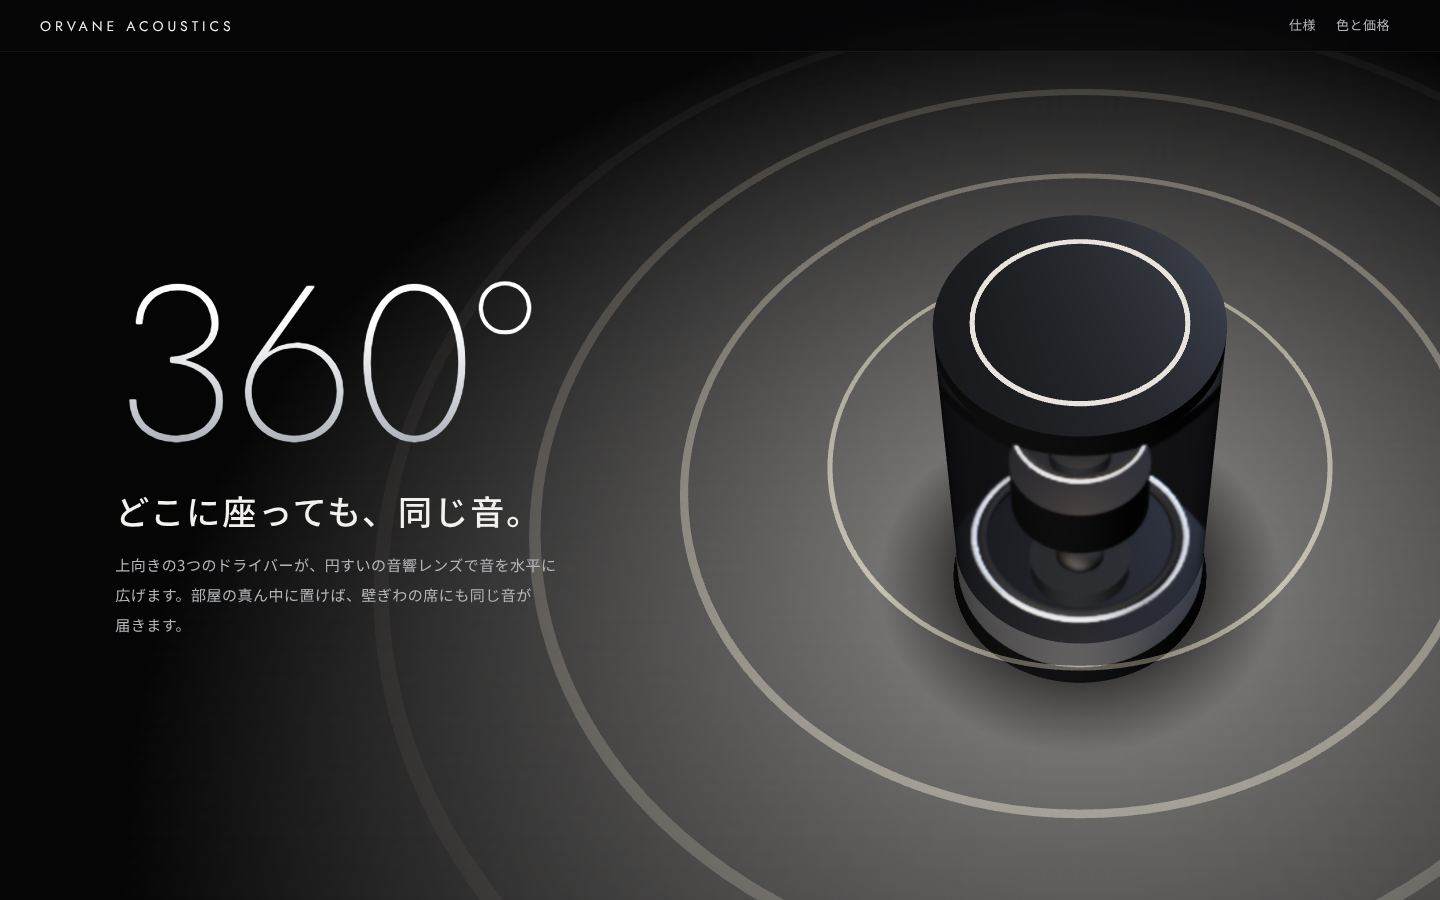
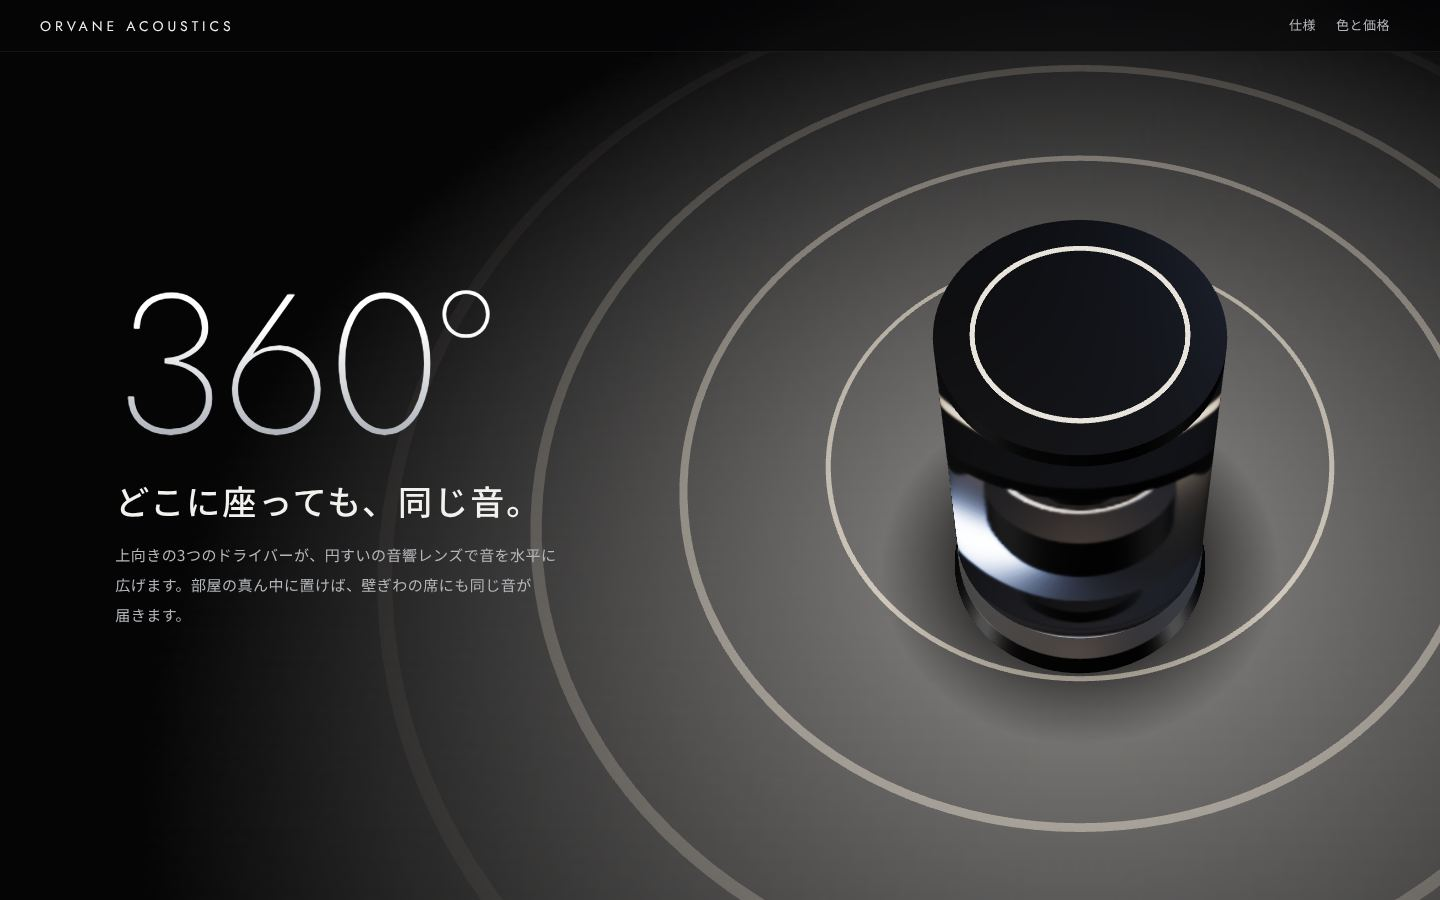
S07-09：審査1回目の指摘を反映（ストリップライトの環境でガラスを透明に、組み上げの段と光の輪の脈、分解の段にドライバー名、20本のゲージ、縦長の画面で文字と製品を分ける、大きな文字は幕が開くように出す）
Claude-Session: https://claude.ai/code/session_01BwmUGTgfPEj1Tu5124aDtq

diff --git a/studio/projects/S07-09-orvane/site/app.js b/studio/projects/S07-09-orvane/site/app.js
@@ -5,7 +5,7 @@ const el = (t, c, x) => { const e = document.createElement(t); if (c) e.classNam
 const reduce = matchMedia('(prefers-reduced-motion: reduce)').matches;
 $('brand').textContent = F.brand; $('kind').textContent = F.kind; $('product').textContent = F.product; $('tag').textContent = F.tagline;
 F.stages.forEach((s, i) => {
-  const sec = el('section', 'sec'); sec.id = s.id; sec.dataset.k = i + 1; sec.setAttribute('aria-labelledby', `h-${s.id}`);
+  const sec = el('section', `sec s-${s.id}`); sec.id = s.id; sec.dataset.k = i + 1; sec.setAttribute('aria-labelledby', `h-${s.id}`);
   const c = el('div', 'copy'), big = el('p', /^[\d°]+$/.test(s.big) ? 'big' : 'big ja', s.big), h = el('h2', null, s.head); h.id = `h-${s.id}`;
   c.append(big, h, el('p', 'body', s.body)); sec.append(c); $('stages').append(sec);
 });
@@ -32,7 +32,12 @@ secs.forEach(s => io.observe(s));
   r.setPixelRatio(Math.min(2, devicePixelRatio)); r.setClearColor(0x050506, 1);
   r.toneMapping = THREE.ACESFilmicToneMapping; r.toneMappingExposure = 1.0;
   const scene = new THREE.Scene(), cam = new THREE.PerspectiveCamera(30, 1, .1, 100);
-  const pm = new THREE.PMREMGenerator(r); scene.environment = pm.fromScene(new RoomEnvironment(), .04).texture;
+  // 映り込み用の環境：暗い部屋の左右に縦長の白いストリップライト（ガラスと金属の縁に縦のハイライトが立つ）
+  const envS = new THREE.Scene(); envS.background = new THREE.Color(0x060606);
+  const stripM = new THREE.MeshBasicMaterial({ color: new THREE.Color(1, 1, 1).multiplyScalar(6) });
+  for (const x of [-5, 5]) { const m = new THREE.Mesh(new THREE.BoxGeometry(.6, 9, .6), stripM); m.position.set(x, 1, 1.5); envS.add(m); }
+  const top = new THREE.Mesh(new THREE.BoxGeometry(4, .3, 4), new THREE.MeshBasicMaterial({ color: new THREE.Color(1, .95, .9).multiplyScalar(1.5) })); top.position.y = 7; envS.add(top);
+  const pm = new THREE.PMREMGenerator(r); scene.environment = pm.fromScene(envS, 0).texture;
 
   // 光：左上のキー、背後の冷たいリム、真上の細いスポット
   const key = new THREE.SpotLight(0xfff1de, 60, 20, .5, .8, 1.6); key.position.set(-3.5, 5, 3); key.target.position.set(0, 1, 0); scene.add(key, key.target);
@@ -63,25 +68,29 @@ secs.forEach(s => io.observe(s));
     const mag = new THREE.Mesh(new THREE.CylinderGeometry(rad * .5, rad * .5, rad * .3, 48), chrome); mag.position.y = -rad * .18; g.add(mag);
     return g;
   };
-  const lens = (rad, h) => { const m = new THREE.Mesh(new THREE.ConeGeometry(rad, h, 72, 1, true), chrome); m.rotation.x = Math.PI; return m; };
-  const base = part(new THREE.Mesh(new THREE.CylinderGeometry(.6, .63, .1, 96), body), .05, -.45);
-  const woofer = part(driver(.46), .22, 0);
+  const lensM = new THREE.MeshStandardMaterial({ color: 0xd8dade, metalness: 1, roughness: .25, side: THREE.DoubleSide });
+  const lens = (rad, h) => { const m = new THREE.Mesh(new THREE.ConeGeometry(rad, h, 72, 1, true), lensM); m.rotation.x = Math.PI; return m; };
+  const base = part(new THREE.Mesh(new THREE.CylinderGeometry(.6, .63, .1, 96), body), .05, 0);
+  const drv = [];
+  const woofer = part(driver(.46), .22, 0); drv.push(woofer);
   part(lens(.42, .2), .56, .3);
   const batt = new THREE.Group();
   batt.add(new THREE.Mesh(new THREE.CylinderGeometry(.3, .3, .3, 48), new THREE.MeshStandardMaterial({ color: 0x1c1d20, metalness: .4, roughness: .5 })));
-  const gaugeM = new THREE.MeshBasicMaterial({ color: 0xffd9a8, transparent: true, opacity: .9 });
-  const gauge = new THREE.Mesh(new THREE.CylinderGeometry(.303, .303, .28, 48, 1, true, 0, Math.PI * 2), gaugeM); gauge.scale.y = .02; batt.add(gauge);
+  // 電池のゲージ：20時間＝20本の細い光の帯。下の段のスクロールで1本ずつ灯る
+  const bars = [...Array(20)].map((_, k) => { const a = k / 20 * Math.PI * 2, m = new THREE.Mesh(new THREE.BoxGeometry(.02, .24, .01), new THREE.MeshBasicMaterial({ color: 0xffd9a8, transparent: true, opacity: 0 })); m.position.set(Math.sin(a) * .305, 0, Math.cos(a) * .305); m.rotation.y = a; batt.add(m); return m; });
   part(batt, .82, .62);
-  part(driver(.27), 1.1, .98);
+  drv.push(part(driver(.27), 1.1, .98));
   part(lens(.25, .13), 1.32, 1.22);
-  part(driver(.11, true), 1.5, 1.45);
+  drv.push(part(driver(.11, true), 1.5, 1.45));
+  const v3 = new THREE.Vector3();
+  const tags = F.specs[0][1].split('／').map(t => { const d = el('div', 'tag3d'); d.append(el('i'), el('span', null, t)); box.append(d); return d; });
   part(lens(.12, .08), 1.66, 1.62);
   const cap = new THREE.Group();
   cap.add(new THREE.Mesh(new THREE.CylinderGeometry(.6, .6, .08, 96), body));
   const ledM = new THREE.MeshBasicMaterial({ color: 0xffd9a8 });
   const led = new THREE.Mesh(new THREE.TorusGeometry(.44, .011, 10, 128), ledM); led.rotation.x = Math.PI / 2; led.position.y = .042; cap.add(led);
   part(cap, 1.84, 2.0);
-  const glass = new THREE.MeshPhysicalMaterial({ color: 0xffffff, metalness: 0, roughness: .04, transmission: 1, thickness: .08, ior: 1.5, transparent: true, side: THREE.DoubleSide, envMapIntensity: 1.2 });
+  const glass = new THREE.MeshPhysicalMaterial({ color: 0xffffff, metalness: 0, roughness: .02, transmission: 1, thickness: .35, ior: 1.5, attenuationColor: new THREE.Color(0xd8dde3), attenuationDistance: 2, iridescence: .15, specularIntensity: 1, transparent: true, side: THREE.DoubleSide, envMapIntensity: 1.6 });
   const shell = new THREE.Mesh(new THREE.CylinderGeometry(.6, .6, 1.7, 96, 1, true), glass); shell.position.y = .95; prod.add(shell);
   const frost = new THREE.Mesh(new THREE.CylinderGeometry(.604, .604, .22, 96, 1, true), new THREE.MeshPhysicalMaterial({ color: 0xffffff, roughness: .4, transmission: .85, thickness: .05, transparent: true, opacity: .45 })); frost.position.y = .21; prod.add(frost);
   const halo = new THREE.PointLight(0xffd9a8, 0, 3, 2); halo.position.y = 1.7; prod.add(halo);
@@ -93,12 +102,14 @@ secs.forEach(s => io.observe(s));
   const K = [
     { elev: 10, dist: 7.2, ex: 0, lift: 0, ring: .55, wave: 0, gauge: 0, yaw: 0 },
     { elev: 58, dist: 7.6, ex: 0, lift: 0, ring: .7, wave: 1, gauge: 0, yaw: .6 },
-    { elev: 12, dist: 12.5, ex: 1, lift: 1, ring: .3, wave: 0, gauge: 0, yaw: 1.4 },
+    { elev: 12, dist: 10.2, ex: 1, lift: 1, ring: .3, wave: 0, gauge: 0, yaw: 1.4 },
     { elev: 6, dist: 4.4, ex: 0, lift: 0, ring: 1, wave: 0, gauge: 0, yaw: 2.2 },
-    { elev: 16, dist: 9.6, ex: .5, lift: .55, ring: .5, wave: 0, gauge: 1, yaw: 3.0 },
-    { elev: 12, dist: 7.0, ex: 0, lift: 0, ring: .7, wave: 0, gauge: 0, yaw: 3.9 },
+    { elev: 16, dist: 8.6, ex: .55, lift: 1, ring: .5, wave: 0, gauge: 1, yaw: 3.0 },
+    { elev: 10, dist: 6.6, ex: 0, lift: 0, ring: .7, wave: 0, gauge: 1, yaw: 3.6 },
+    { elev: 12, dist: 7.0, ex: 0, lift: 0, ring: .7, wave: 0, gauge: 0, yaw: 4.2 },
   ];
-  const lerp = (a, b, t) => a + (b - a) * t, sm = t => t * t * (3 - 2 * t);
+  const lerp = (a, b, t) => a + (b - a) * t, sm = t => t * t * (3 - 2 * t), io3 = t => t < .5 ? 4 * t * t * t : 1 - Math.pow(-2 * t + 2, 3) / 2;
+  const back = t => { const c = 1.2, x = t - 1; return 1 + (c + 1) * x * x * x + c * x * x; };
   let sp = 0;   // 段の位置（小数）
   function stagePos() {
     const mid = scrollY + innerHeight / 2, cs = secs.map(s => { const b = s.getBoundingClientRect(); return b.top + scrollY + Math.min(b.height, innerHeight * 1.2) / 2; });
@@ -108,27 +119,38 @@ secs.forEach(s => io.observe(s));
   onColor = i => { tCol = COL[i]; };
   let tCol = COL[0];
 
-  function fit() { const w = box.clientWidth, h = box.clientHeight; r.setSize(w, h, false); cam.aspect = w / h; cam.fov = w < h ? 44 : 30; cam.updateProjectionMatrix(); }
+  function fit() { const w = box.clientWidth, h = box.clientHeight; r.setSize(w, h, false); cam.aspect = w / h; cam.fov = w < 900 && w < h ? 50 : 30; cam.updateProjectionMatrix(); }
   new ResizeObserver(fit).observe(box); fit();
 
   let shown = false, last = performance.now(), off = null;
   function frame(ms) {
     const dt = Math.min(.05, (ms - last) / 1000); last = ms; const t = ms / 1000;
     const target = stagePos(); sp = reduce ? Math.round(target) : sp + (target - sp) * (1 - Math.exp(-dt * 6));
-    const i = Math.min(K.length - 2, Math.floor(sp)), f = sm(Math.min(1, sp - i)), A = K[i], B = K[i + 1], S = {};
+    const i = Math.min(K.length - 2, Math.floor(sp)), raw = Math.min(1, sp - i), f = io3(raw), A = K[i], B = K[i + 1], S = {};
     for (const k in A) S[k] = lerp(A[k], B[k], f);
     // 分解：部品ごとに少しずつずらして開く（下の部品から）
-    parts.forEach((p, n) => { const e = sm(Math.min(1, Math.max(0, S.ex * 1.25 - n * .03))); p.position.y = p.userData.y + p.userData.ex * 1.15 * e; });
-    shell.position.y = .95 + S.lift * 4.6; glass.opacity = 1 - S.lift * .6; frost.position.y = .21 + S.lift * 4.6;
-    ledM.color.setRGB(1, .85, .66).multiplyScalar(.25 + S.ring * 1.4); halo.intensity = S.ring * 1.2;
-    gauge.scale.y = Math.max(.02, S.gauge); gauge.position.y = -.14 + .14 * gauge.scale.y;
+    // 組み上げ（段4→段5）：上の部品から順に落ちて、着地で少し沈んで戻る。最後に筒が被さり、光の輪が1回脈打つ
+    const build = i === 4 ? raw : -1, N = parts.length;
+    parts.forEach((p, n) => {
+      let e;
+      if (build >= 0) { const d = (N - 1 - n) * .07, u = Math.min(1, Math.max(0, (build - d) / .45)); e = K[4].ex * (1 - back(u)); }
+      else e = sm(Math.min(1, Math.max(0, S.ex * 1.25 - n * .03)));
+      p.position.y = p.userData.y + p.userData.ex * .9 * e;
+    });
+    let lift = S.lift, pulse = 0;
+    if (build >= 0) { const u = Math.min(1, Math.max(0, (build - .62) / .25)); lift = 1 - sm(u); pulse = build > .87 ? Math.exp(-Math.pow((build - .93) / .04, 2)) : 0; }
+    shell.position.y = .95 + lift * 4.6; glass.opacity = 1 - lift * .6; frost.position.y = .21 + lift * 4.6;
+    ledM.color.setRGB(1, .85, .66).multiplyScalar(.25 + (S.ring + pulse * .9) * 1.4); halo.intensity = (S.ring + pulse) * 1.2;
+    bars.forEach((b, k) => { b.material.opacity = S.gauge * .75 * Math.min(1, Math.max(0, (i === 3 ? raw : i === 4 ? 1 : S.gauge) * 22 - k)); });
+    // ドライバーの名前（分解の段だけ、引き出し線つき）
+    tags.forEach((g, k) => { const p = drv[k]; const L = box.clientWidth < 900; v3.set(0, 0, 0); p.localToWorld(v3); v3.x += L ? -.55 : .5; v3.project(cam); g.classList.toggle('l', L); const show = Math.max(0, (S.ex - .75) * 4) * (i <= 2 ? 1 : 0); g.style.opacity = Math.min(1, show * (1.3 - k * .15)).toFixed(3); const px = (v3.x + 1) / 2 * box.clientWidth, X = L ? Math.max(g.offsetWidth + 8, px) : Math.min(box.clientWidth - g.offsetWidth - 8, px); g.style.transform = `translate(${X.toFixed(1)}px, ${((1 - v3.y) / 2 * box.clientHeight).toFixed(1)}px)${L ? ' translateX(-100%)' : ''}`; });
     waves.forEach((w, k) => { const ph = ((reduce ? .5 : t * .35) + k / waves.length) % 1; w.scale.setScalar(.7 + ph * 2.6); w.material.opacity = S.wave * (1 - ph) * .5; });
     body.color.lerp(tCol, .08);
     prod.rotation.y = S.yaw + (reduce ? 0 : t * .08);
-    const el = S.elev * Math.PI / 180, ty = 1.0 + S.ex * .95;
+    const el = S.elev * Math.PI / 180, ty = 1.0 + S.ex * .85;
     cam.position.set(0, ty + Math.sin(el) * S.dist, Math.cos(el) * S.dist); cam.lookAt(0, ty, 0);
     // 製品は文字を避けて置く（PC は右、スマホは下）
-    const W = box.clientWidth, H = box.clientHeight, o = W >= 900 ? [-W * .25, 0] : [0, -H * .17];
+    const W = box.clientWidth, H = box.clientHeight, o = W >= 900 ? [-W * .25, 0] : [0, -H * .24];
     if (!off || off[0] !== o[0] || off[1] !== o[1]) { cam.setViewOffset(W, H, o[0], o[1], W, H); off = o; }
     r.render(scene, cam);
     if (!shown) { shown = true; cv.classList.add('ready'); }

diff --git a/studio/projects/S07-09-orvane/site/style.css b/studio/projects/S07-09-orvane/site/style.css
@@ -30,15 +30,22 @@ main { position: relative; z-index: 1; }
 .sec { min-height: 150svh; padding: 92px 20px 0; }
 .sec.hero { min-height: 120svh; }
 .copy { position: sticky; top: 92px; max-width: 520px; }
+.s-round { min-height: 200svh; } .s-glass { min-height: 120svh; } .s-build { min-height: 180svh; }
 .copy > * { opacity: 0; transform: translateY(18px); transition: opacity .7s cubic-bezier(.2, .7, .2, 1), transform .9s cubic-bezier(.2, .7, .2, 1); }
 .sec.in .copy > * { opacity: 1; transform: none; }
+.sec:not(.in) .copy > * { transition-duration: .25s; transition-delay: 0s; }
+/* 大きな文字だけは、下から幕が開くように出す */
+.copy > .big { opacity: 1; transform: none; clip-path: inset(100% 0 0 0); letter-spacing: .08em; transition: clip-path .9s cubic-bezier(.16, 1, .3, 1), letter-spacing .9s cubic-bezier(.16, 1, .3, 1); }
+.sec.in .copy > .big { clip-path: inset(0 0 -10% 0); letter-spacing: -.01em; }
+.sec:not(.in) .copy > .big { transition: clip-path .25s, letter-spacing .25s; }
+.sec.in .copy > :nth-child(2) { transition-delay: .12s; } .sec.in .copy > :nth-child(3) { transition-delay: .24s; }
 .sec.in .copy > :nth-child(2) { transition-delay: .08s; } .sec.in .copy > :nth-child(3) { transition-delay: .16s; } .sec.in .copy > :nth-child(4) { transition-delay: .24s; }
 .kind { margin: 0; font-size: 13px; color: var(--sub); letter-spacing: .2em; }
-.hero h1 { margin: 8px 0 0; font: 200 clamp(44px, 12.5vw, 104px)/1 var(--num); letter-spacing: .06em; white-space: nowrap; }
+.hero h1 { margin: 8px 0 0; font: 200 clamp(36px, 12.5vw, 104px)/1 var(--num); letter-spacing: .06em; white-space: nowrap; }
 .tag { margin: 18px 0 0; font: 300 clamp(20px, 5vw, 30px)/1.6 var(--sans); letter-spacing: .12em; }
 .hint { margin: 28px 0 0; font-size: 12px; color: var(--sub); letter-spacing: .2em; }
-.big { margin: 0; font: 200 clamp(84px, 26vw, 220px)/.95 var(--num); letter-spacing: -.01em; background: linear-gradient(180deg, #fff 30%, #9ea3ab); -webkit-background-clip: text; background-clip: text; color: transparent; white-space: nowrap; }
-.big.ja { font: 300 clamp(64px, 19vw, 168px)/1.05 var(--sans); letter-spacing: .02em; }
+.big { margin: 0; font: 200 clamp(72px, min(26vw, 22svh), 220px)/.95 var(--num); letter-spacing: -.01em; background: linear-gradient(180deg, #fff 30%, #9ea3ab); -webkit-background-clip: text; background-clip: text; color: #eceef0; -webkit-text-fill-color: transparent; white-space: nowrap; }
+.big.ja { font: 300 clamp(56px, min(19vw, 17svh), 168px)/1.05 var(--sans); letter-spacing: .02em; }
 .sec h2 { margin: 16px 0 0; font: 500 clamp(22px, 5.6vw, 34px)/1.5 var(--sans); letter-spacing: .06em; }
 .body { margin: 14px 0 0; color: var(--sub); font-size: 15px; line-height: 2; max-width: 30em; }
 .sw { display: flex; gap: 12px; margin: 24px 0 0; }
@@ -48,10 +55,10 @@ main { position: relative; z-index: 1; }
 .price { margin: 24px 0 0; font: 300 clamp(30px, 8vw, 44px)/1.2 var(--num); letter-spacing: .02em; font-variant-numeric: tabular-nums; }
 .note { margin: 6px 0 0; font-size: 13px; color: var(--sub); }
 
-.specs { position: relative; z-index: 2; background: var(--bg); padding: 88px 20px 56px; border-top: 1px solid var(--line); }
+.specs { position: relative; z-index: 2; background: rgba(5, 5, 6, .82); -webkit-backdrop-filter: blur(20px); backdrop-filter: blur(20px); padding: 88px 20px 56px; border-top: 1px solid var(--line); }
 .specs h2 { max-width: 960px; margin: 0 auto 24px; font: 500 28px/1.4 var(--sans); letter-spacing: .2em; }
 .specs dl { max-width: 960px; margin: 0 auto; }
-.specs div { display: grid; grid-template-columns: 7em 1fr; gap: 16px; padding: 16px 0; border-bottom: 1px solid var(--line); }
+.specs div { align-items: baseline; display: grid; grid-template-columns: 7em 1fr; gap: 16px; padding: 16px 0; border-bottom: 1px solid var(--line); }
 .specs dt { color: var(--sub); font-size: 14px; }
 .specs dd { margin: 0; }
 .foot { position: relative; z-index: 2; background: var(--bg); padding: 24px 20px 48px; font-size: 12px; color: var(--sub); }
@@ -63,4 +70,10 @@ main { position: relative; z-index: 1; }
   .copy { top: 0; height: 100svh; display: flex; flex-direction: column; justify-content: center; max-width: 40vw; }
   .specs { padding: 120px 40px 80px; }
 }
-@media (prefers-reduced-motion: reduce) { .copy > * { transition: none; } }
+@media (prefers-reduced-motion: reduce) { .copy > *, .copy > .big { transition: none; } }
+/* 分解の段のドライバー名（3D の位置に付く） */
+.tag3d { position: absolute; left: 0; top: 0; z-index: 1; display: flex; align-items: center; gap: 8px; opacity: 0; pointer-events: none; font: 300 13px/1 var(--num); letter-spacing: .08em; color: var(--sub); white-space: nowrap; will-change: transform; }
+.tag3d.l { flex-direction: row-reverse; }
+.tag3d i { width: 40px; height: 1px; background: rgba(180, 182, 186, .6); }
+@media (max-width: 899px) { .copy { padding-bottom: 16px; } .copy::before { content: ""; position: absolute; inset: -92px -20px -24px; z-index: -1; background: linear-gradient(180deg, #050506 0 70%, rgba(5, 5, 6, 0)); } }
+@media (max-width: 359px) { .brand { letter-spacing: .14em; font-size: 12px; } .top nav a { padding: 0 6px; } }

diff --git a/studio/projects/S07-09-orvane/site/data.js b/studio/projects/S07-09-orvane/site/data.js
@@ -1,2 +1,2 @@
 // facts.json から生成（手で書き換えない）
-export const F = {"_note": "ブランド・製品・仕様・価格はすべて架空。当初の案の Sirius Acoustics は実在の製品名（Naga Audio Sirius など）と重なるため、2026-11-12 にウェブ検索で該当のない Orvane Acoustics に変えた。連絡先・URL は載せない", "brand": "Orvane Acoustics", "product": "ORVANE ONE", "kind": "360° ワイヤレススピーカー", "tagline": "音を、部屋の真ん中に。", "stages": [{"id": "round", "big": "360°", "head": "どこに座っても、同じ音。", "body": "上向きの3つのドライバーが、円すいの音響レンズで音を水平に広げます。部屋の真ん中に置けば、壁ぎわの席にも同じ音が届きます。"}, {"id": "drivers", "big": "3", "head": "3つのドライバーを、縦に重ねた。", "body": "低音の 100mm ウーファー、中音の 50mm ミッド、高音の 19mm ツイーター。帯域ごとに専用のドライバーが鳴ります。"}, {"id": "glass", "big": "ガラス", "head": "筐体は、一枚のガラスの筒。", "body": "中のドライバーが透けて見える、継ぎ目のない筒です。上面の光の輪は、音量に合わせて明るさを変えます。"}, {"id": "battery", "big": "20時間", "head": "コードを外して、庭まで。", "body": "一度の充電で約20時間鳴ります。底面を台に載せるだけで充電できます。"}], "specs": [["ドライバー", "100mm ウーファー／50mm ミッド／19mm ツイーター"], ["連続再生", "約20時間"], ["接続", "Bluetooth・Wi-Fi"], ["大きさ", "直径 120mm・高さ 210mm"], ["重さ", "約1.4kg"]], "colors": [["墨", "#2a2b2e"], ["霧", "#c9ccd0"]], "price": "49,800円（税込）", "disclosure": "※ブランド・製品・仕様・価格はすべて架空の見本です（天狼スタジオ制作）。販売はしていません。"};
+export const F = {"brand": "Orvane Acoustics", "product": "ORVANE ONE", "kind": "360° ワイヤレススピーカー", "tagline": "音を、部屋の真ん中に。", "stages": [{"id": "round", "big": "360°", "head": "どこに座っても、同じ音。", "body": "上向きの3つのドライバーが、円すいの音響レンズで音を水平に広げます。部屋の真ん中に置けば、壁ぎわの席にも同じ音が届きます。"}, {"id": "drivers", "big": "3", "head": "3つのドライバーを、縦に重ねた。", "body": "低音の 100mm ウーファー、中音の 50mm ミッド、高音の 19mm ツイーター。帯域ごとに専用のドライバーが鳴ります。"}, {"id": "glass", "big": "ガラス", "head": "筐体は、一枚のガラスの筒。", "body": "中のドライバーが透けて見える、継ぎ目のない筒です。上面の光の輪は、音量に合わせて明るさを変えます。"}, {"id": "battery", "big": "20時間", "head": "コードを外して、庭まで。", "body": "一度の充電で約20時間鳴ります。底面を台に載せるだけで充電できます。"}, {"id": "build", "big": "1.4kg", "head": "すべてを、ひとつの筒に。", "body": "3つのドライバーも電池も、直径 120mm・高さ 210mm の筒に収めました。重さは約1.4kg。"}], "specs": [["ドライバー", "100mm ウーファー／50mm ミッド／19mm ツイーター"], ["連続再生", "約20時間"], ["接続", "Bluetooth・Wi-Fi"], ["大きさ", "直径 120mm・高さ 210mm"], ["重さ", "約1.4kg"]], "colors": [["墨", "#2a2b2e"], ["霧", "#c9ccd0"]], "price": "49,800円（税込）", "disclosure": "※ブランド・製品・仕様・価格はすべて架空の見本です（天狼スタジオ制作）。販売はしていません。"};

diff --git a/studio/projects/S07-09-orvane/build.py b/studio/projects/S07-09-orvane/build.py
@@ -3,6 +3,6 @@
 import json
 from pathlib import Path
 H = Path(__file__).parent
-F = json.loads((H / 'facts.json').read_text())
+F = {k: v for k, v in json.loads((H / 'facts.json').read_text()).items() if not k.startswith('_')}   # 制作メモ（_note）は配信しない
 (H / 'site' / 'data.js').write_text('// facts.json から生成（手で書き換えない）\nexport const F = ' + json.dumps(F, ensure_ascii=False) + ';\n')
 print('ok')
